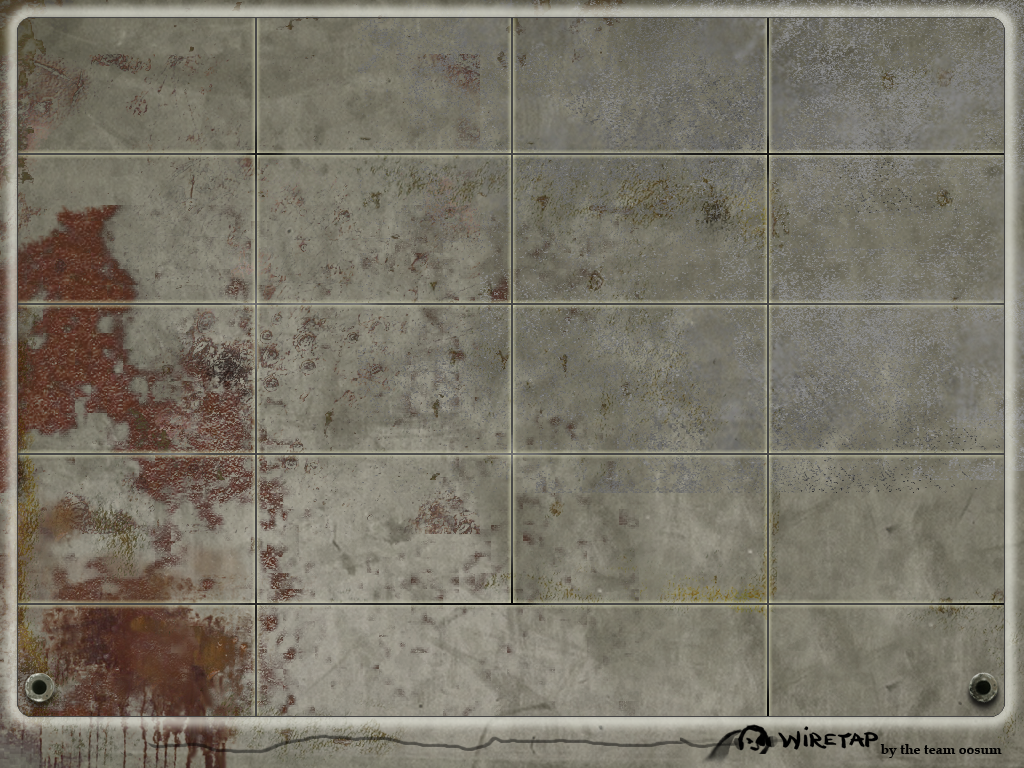
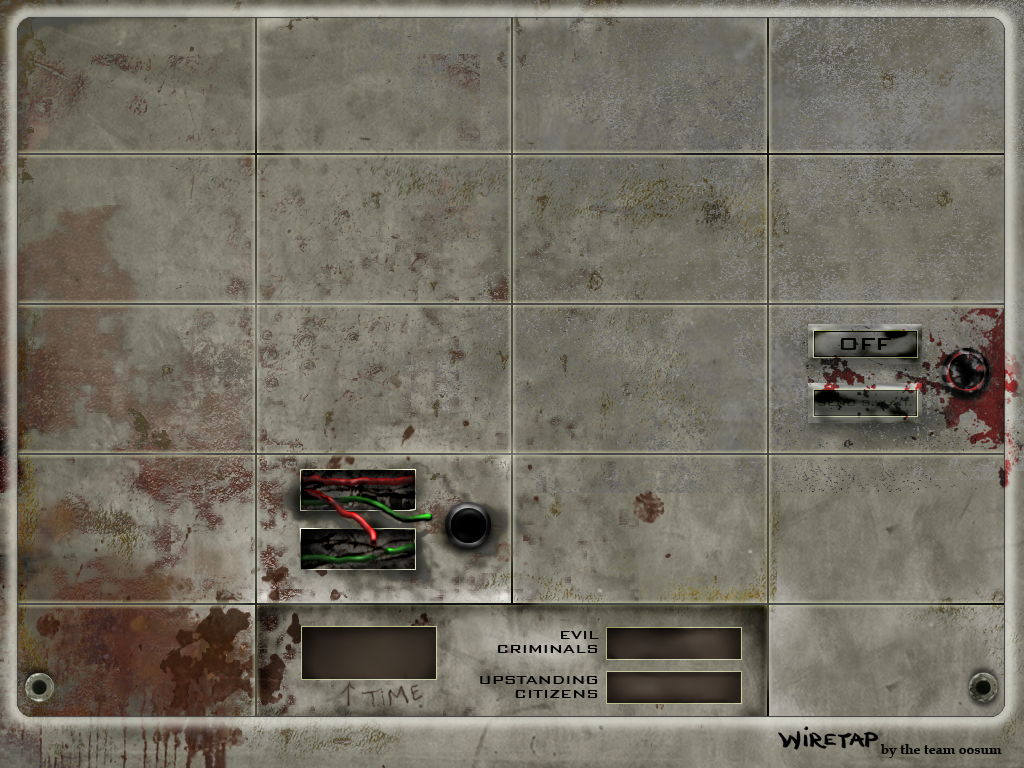
New graphics, disabled consoles.

diff --git a/wiretap.py b/wiretap.py
@@ -22,6 +22,8 @@ class Voice(object):
 
 class Console(object): # aka listening station
 
+    disabled = False
+
     def __init__(self):
         self.listening = False
         self.active = False
@@ -110,6 +112,8 @@ class Game(object):
 
         for n in range(self.n_consoles):
             self.consoles.append(Console())
+        self.consoles[11].disabled = True
+        self.consoles[13].disabled = True
 
         self.start()
 
@@ -139,7 +143,7 @@ class Game(object):
                 self.kill_guy(c)
 
     def get_empty_consoles(self):
-        return [c for c in self.consoles if not c.active]
+        return [c for c in self.consoles if not c.active and not c.disabled]
 
     def add_guy(self, personality):
         empty_consoles = self.get_empty_consoles()
@@ -325,6 +329,9 @@ class Layout(object):
         # XXX maybe fill areas outside background, if any
         screen.blit(self.background, (self.x, self.y))
         for n, c in enumerate(game.consoles):
+            if c.disabled:
+                continue
+
             pos = self.console_pos(n)
 
             if c.swat_engaged:
@@ -376,8 +383,10 @@ class Layout(object):
         n = self.console_idx(x, y)
         if n is None or not game.running:
             return
-        pos = self.console_pos(n)
         c = game.consoles[n]
+        if c.disabled:
+            return
+        pos = self.console_pos(n)
         if self.in_button(x, y, self.listening_pos, self.listening_size, pos):
             c.listening = not c.listening
         if self.in_button(x, y, self.swat_pos, self.swat_size, pos):
